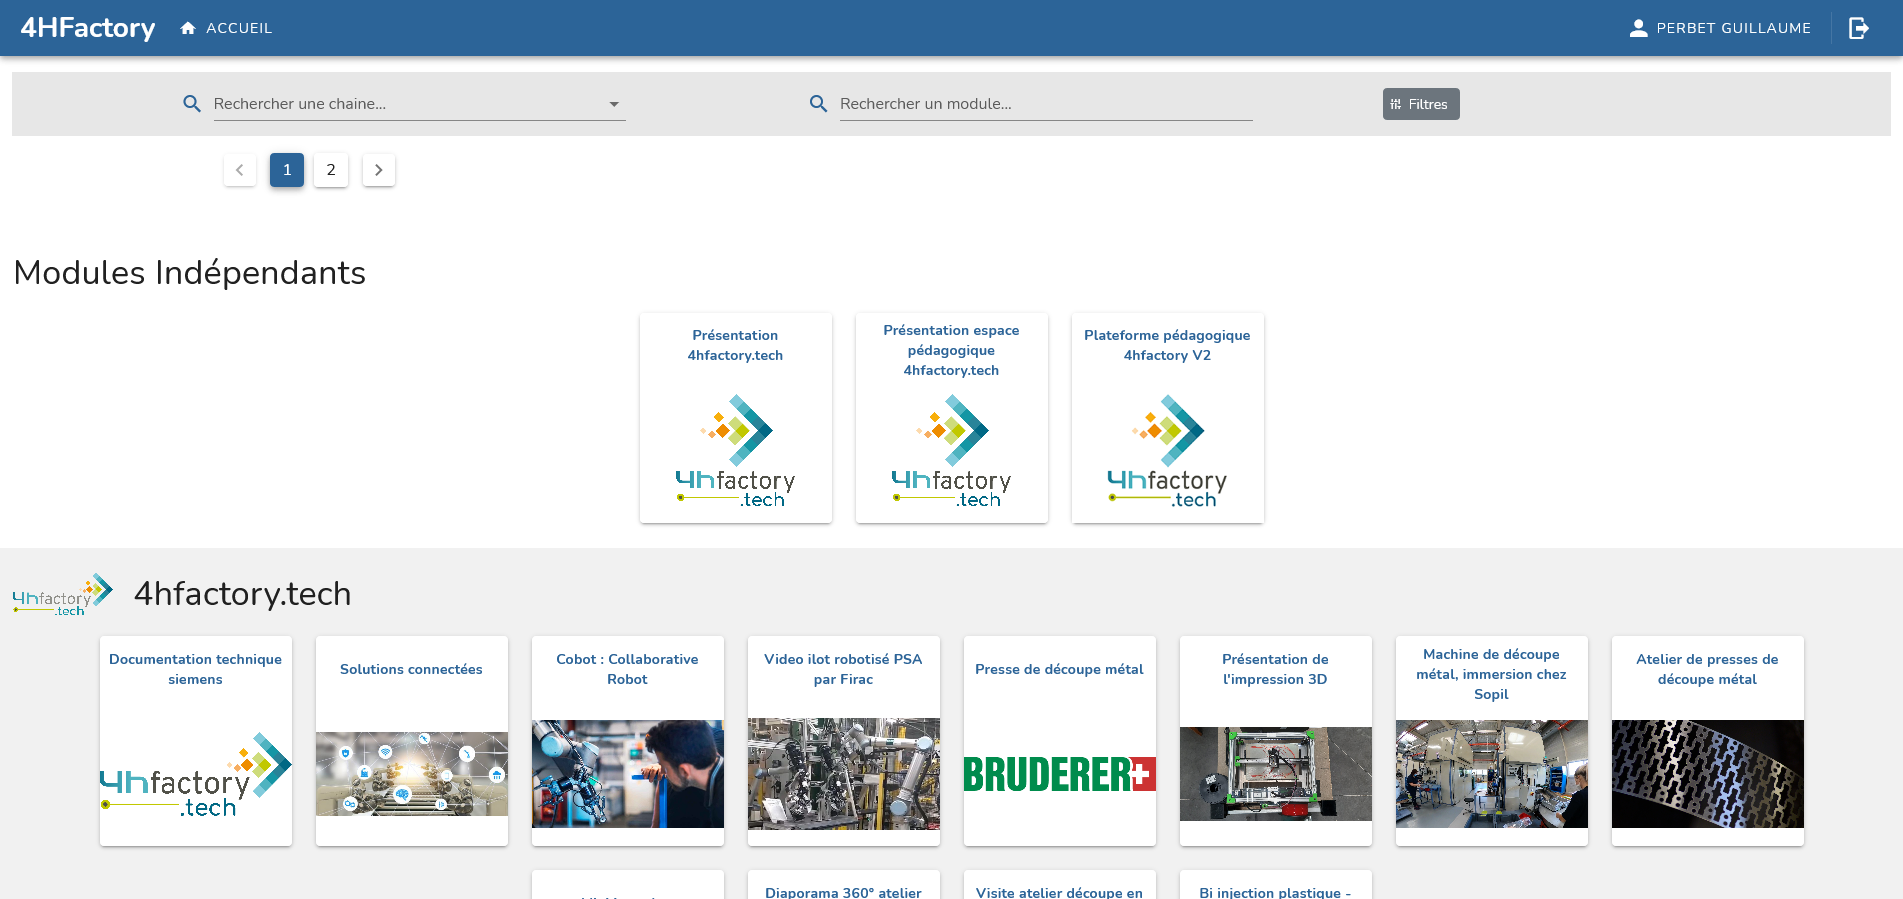
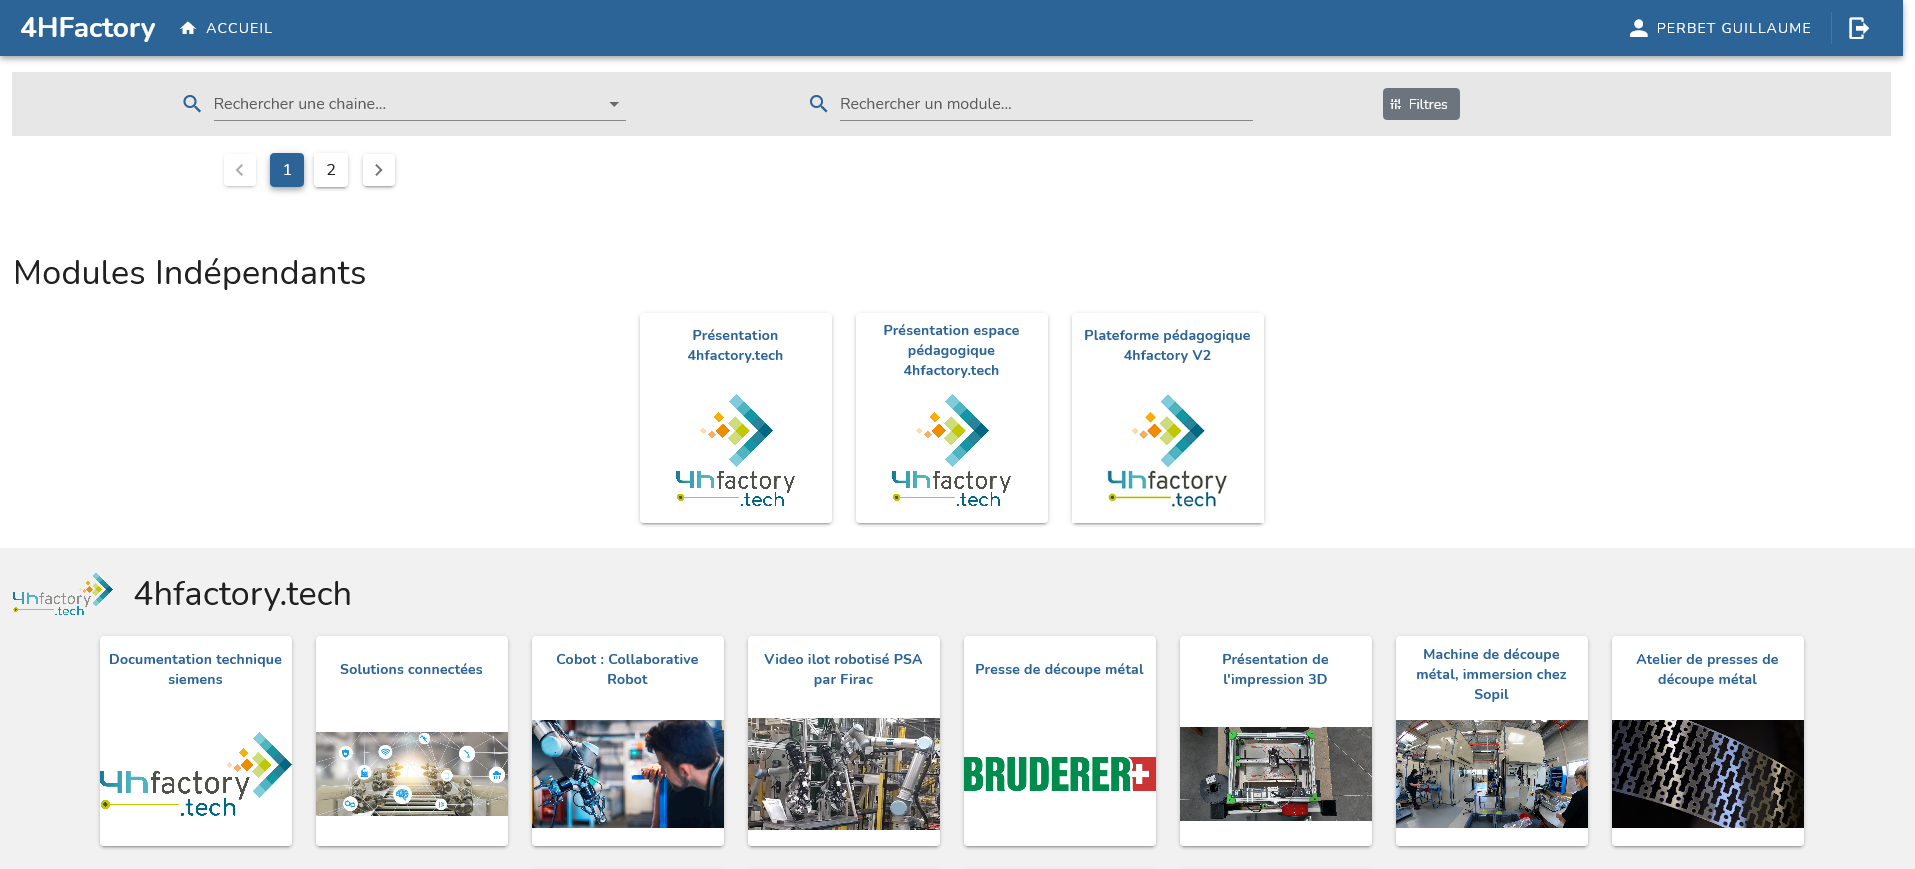
fix pf4h-image display

diff --git a/css/style.scss b/css/style.scss
@@ -1568,12 +1568,12 @@ ul{//list reset
 }
 
 //PROJECT ACE IMAGE 
-#project-myteam-image{
+#project-pf4h-image{
 	background-image: url('../media/pf4h-image.png');
 	background-repeat: no-repeat;
 	background-size: 100% auto;
 	background-position: center;
-	min-height: 43vw;
+	min-height: 56.35vw;
 }
 
 //PROJECT PORTFOLIO IMAGE_______________________________

diff --git a/project-pf4h.html b/project-pf4h.html
@@ -109,7 +109,7 @@
         </section>
 
         <!-- IMAGE -->
-        <section id="project-ace-image" class="container-fluid" itemprop="image">
+        <section id="project-pf4h-image" class="container-fluid" itemprop="image">
         </section>
     </main>
 
